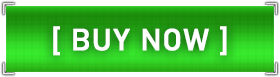
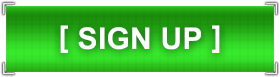
Launch Updates

Changed region(s): [[0.1714, 0.3117, 0.8286, 0.7532]]

diff --git a/secret.html b/secret.html
@@ -27,7 +27,7 @@
 <div class="container">
 <div class="row" style="margin: 0;">
 <div class="col-sm-12 text-center logo" style="padding: 0px !important;"><img style="padding: 35px 20px 20px 20px;" src="img/logo.png" alt="ALVO" />
-  <div><iframe data-src="https://www.youtube.com/embed/bRLUE1zHcpI?controls=0" width="100%" height="150" frameborder="0" allowfullscreen="allowfullscreen"></iframe></div>
+  <div><iframe data-src="https://www.youtube.com/watch?v=0CCpOwQVc0g&t=4s?controls=0" width="100%" height="150" frameborder="0" allowfullscreen="allowfullscreen"></iframe></div>
 </div>
 <div class="col-sm-12 text-center social">
 <div id="icons">
@@ -42,13 +42,14 @@
 <div>
 <br />
 <div id="game">
-  <img id="cover" src="https://media.playstation.com/is/image/SCEA/horizon-zero-dawn-pre-order-bonuses-standard-edition-box-art-01-ps4-us-02jun16?$TwoColumn_Image$">
+ <!-- COVER <img id="cover" src="https://media.playstation.com/is/image/SCEA/horizon-zero-dawn-pre-order-bonuses-standard-edition-box-art-01-ps4-us-02jun16?$TwoColumn_Image$" alt=""> -->
+ 
+ <!-- DESCRIPTION -->
 Lorem ipsum dolor sit amet, consectetur adipiscing elit. Pellentesque id sem aliquam, porttitor magna ut, blandit sapien. Sed posuere, ligula eu viverra ullamcorper, mi sem hendrerit sapien, sit amet imperdiet justo nisi non enim. Vivamus consectetur sit amet dui et porta. Aenean ligula nunc, fermentum eget congue at, auctor faucibus dui. Duis quis urna non mauris volutpat iaculis. Sed nec velit eros. Donec in lacus non felis scelerisque rhoncus. Aliquam nec nibh ut nisl blandit congue. Vivamus luctus, mauris tincidunt bibendum convallis, neque ipsum porta massa.
 <br /><br />
-  <h4>Vel ultrices neque augue sit amet leo.</h4>
-<br />
-  <a href="#"><img src="img/buy.png" id="buy" alt="Buy Now" /></a>
-<br /><br />
+<h4>Get the Latest News & Development</h4>
+<!-- / DESCRIPTION -->
+<br /><a href="https://forms.gle/PpTabK8igwFbruNi9"><img src="img/buy.png" id="buy" alt="Sign Up" /></a><br /><br />
 </div> 
 </div>
 </div>
@@ -56,12 +57,14 @@ Lorem ipsum dolor sit amet, consectetur adipiscing elit. Pellentesque id sem ali
 <img id="title" src="img/ss.png" alt="Screenshots" />
 <div class="gallery">
 <div class="row">
+ <!-- IMAGE GALLERY -->
   <div class="col-sm-6 col-md-4"><a class="lightbox" href="img/ss1.jpg"><img src="img/t1.jpg"></a></div>
   <div class="col-sm-6 col-md-4"><a class="lightbox" href="img/ss2.jpg"><img src="img/t2.jpg"></a></div>
   <div class="col-sm-6 col-md-4"><a class="lightbox" href="img/ss3.jpg"><img src="img/t3.jpg"></a></div>
   <div class="col-sm-6 col-md-4"><a class="lightbox" href="img/ss3.jpg"><img src="img/t3.jpg"></a></div>
   <div class="col-sm-6 col-md-4"><a class="lightbox" href="img/ss2.jpg"><img src="img/t2.jpg"></a></div>
   <div class="col-sm-6 col-md-4"><a class="lightbox" href="img/ss1.jpg"><img src="img/t1.jpg"></a></div>
+<!-- / IMAGE GALLERY -->
 </div>
 </div>
 </div>
